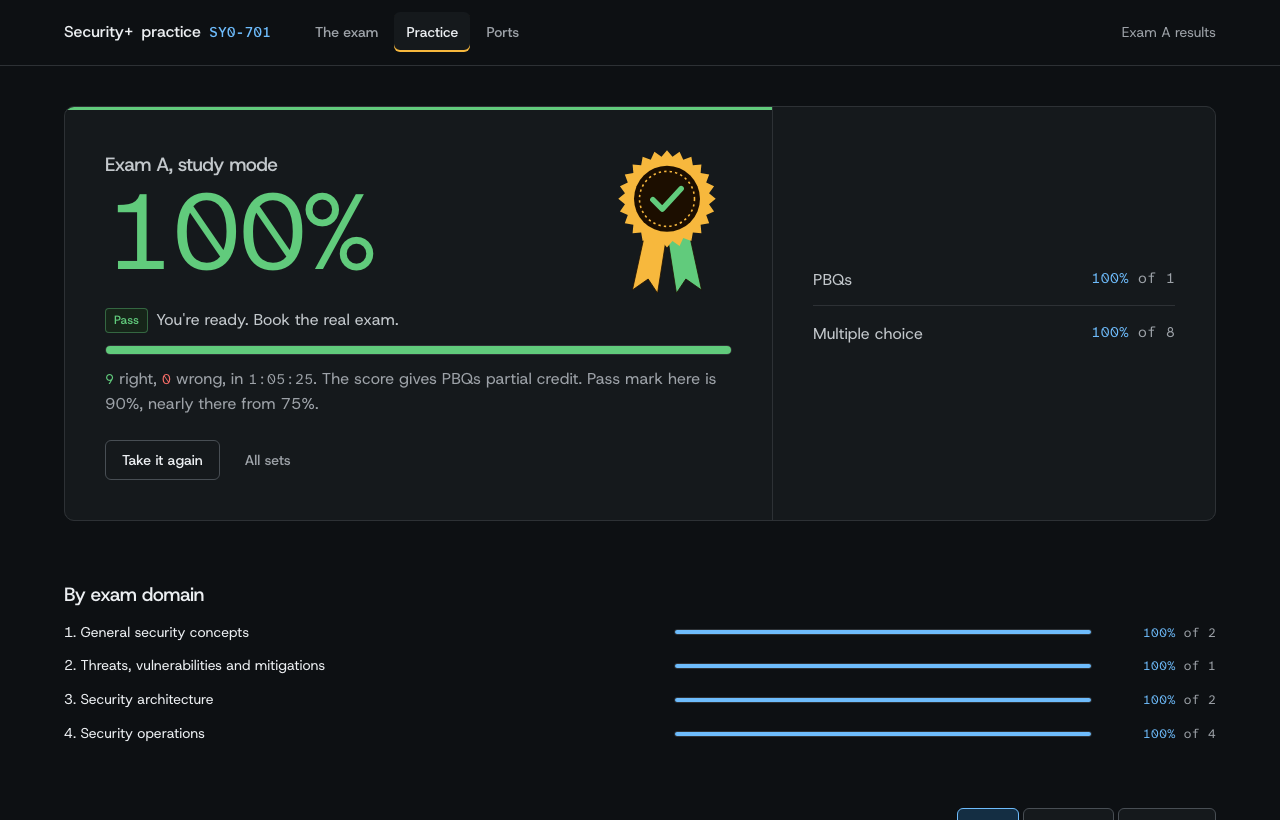
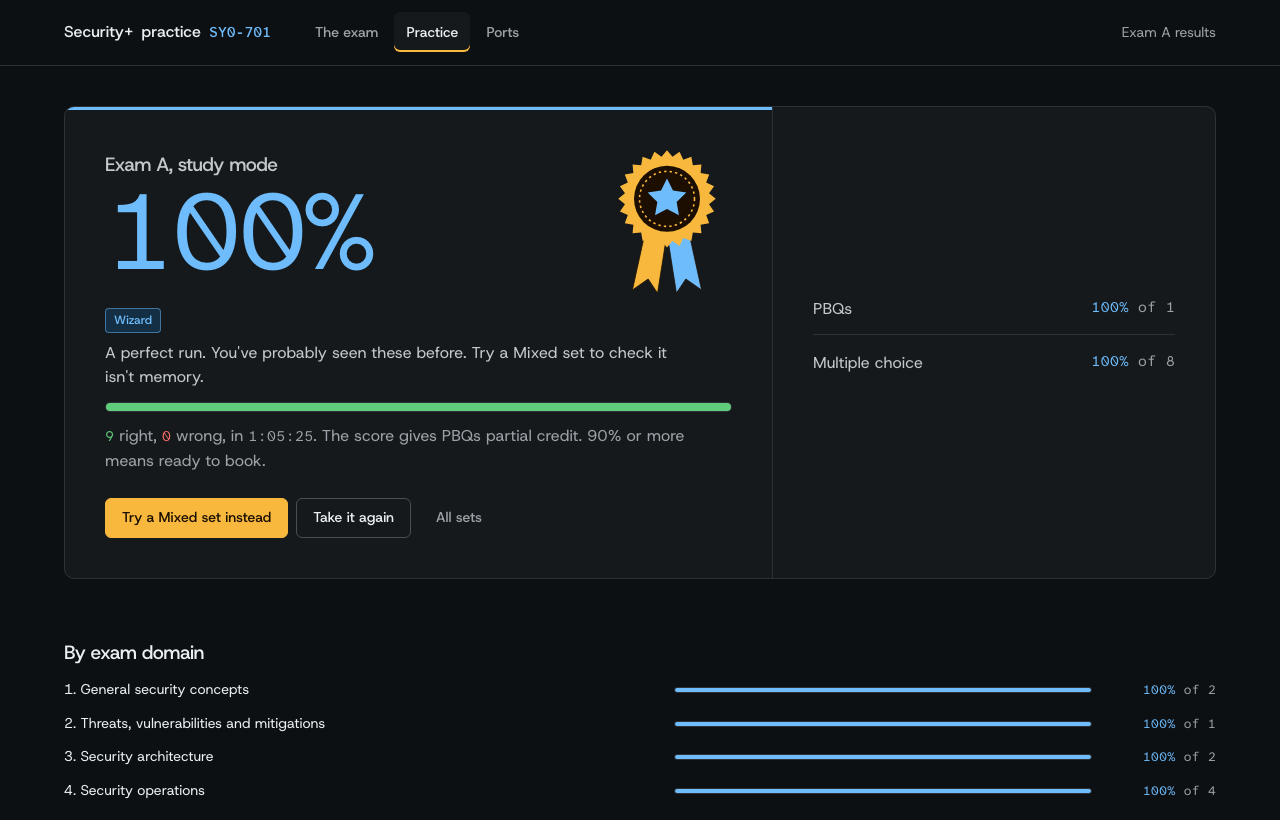
Score tiers from Professor Messer's chart, plus Wizard at 100%
Wizard (100%) offers a Mixed set instead, Exceptional (90%+) is ready to
book, then Strong showing (80%+), So close (70%+) and Not yet. Landing page,
README and screenshots updated to match.

diff --git a/app.js b/app.js
@@ -113,14 +113,17 @@ const icon = {
   bad: '<svg width="16" height="16" viewBox="0 0 16 16" aria-hidden="true"><path d="M4 4l8 8M12 4l-8 8" fill="none" stroke="currentColor" stroke-width="1.8" stroke-linecap="round"/></svg>',
 };
 
-// ---------- tiers: 90%+ pass, 75%+ nearly there, below that read more ----------
-const TIERS = [
-  { min: 0.9, key: "pass", name: "Pass", line: "You're ready. Book the real exam." },
-  { min: 0.75, key: "near", name: "Nearly there", line: "Good try. Close the gaps below and go again." },
-  { min: 0, key: "fail", name: "Not yet", line: "Read more on the weak domains below, then retry the ones you missed." },
+// ---------- tiers (see TIERS below) ----------
+const TIERS = [ // Professor Messer's scoring chart, plus Wizard for a perfect score
+  { min: 1, key: "wizard", name: "Wizard", line: "A perfect run. You've probably seen these before. Try a Mixed set to check it isn't memory." },
+  { min: 0.9, key: "pass", name: "Exceptional", line: "You're ready for the real thing. Book the exam." },
+  { min: 0.8, key: "strong", name: "Strong showing", line: "85% and up can reasonably count as a pass. A bit more study earns real points." },
+  { min: 0.7, key: "close", name: "So close", line: "Keep working on what you missed and fill those gaps." },
+  { min: 0, key: "fail", name: "Not yet", line: "Use the objective link on each missed question to find where you need more help." },
 ];
+const READY = (score) => score >= 0.9;
 const tierOf = (score) => TIERS.find((t) => score >= t.min);
-function rosette() {
+function rosette(star) {
   // an original award rosette: 24-point scalloped disc, inner seal, two tails
   const pts = [];
   for (let i = 0; i < 48; i++) { const r = i % 2 ? 54 : 62, a = (i / 48) * Math.PI * 2; pts.push(`${(70 + r * Math.sin(a)).toFixed(1)},${(66 - r * Math.cos(a)).toFixed(1)}`); }
@@ -130,7 +133,7 @@ function rosette() {
     <polygon class="rosette__edge" points="${pts.join(" ")}"/>
     <circle class="rosette__seal" cx="70" cy="66" r="42"/>
     <circle class="rosette__ring" cx="70" cy="66" r="35"/>
-    <path class="rosette__tick" d="M52 67 l12 12 l24 -26"/>
+    ${star ? `<path class="rosette__star" d="M70 40 l7.6 15.4 17 2.5 -12.3 12 2.9 16.9 -15.2 -8 -15.2 8 2.9 -16.9 -12.3 -12 17 -2.5z"/>` : `<path class="rosette__tick" d="M52 67 l12 12 l24 -26"/>`}
   </svg>`;
 }
 const confetti = () => `<div class="confetti" aria-hidden="true">${Array.from({ length: 24 }, (_, i) => `<i style="--x:${(Math.random() * 2 - 1).toFixed(2)};--d:${(Math.random() * 0.4).toFixed(2)}s;--r:${Math.round(Math.random() * 360)}deg" class="c${i % 3}"></i>`).join("")}</div>`;
@@ -223,11 +226,13 @@ function renderLanding() {
       <div class="tiers-key">
         <h3>How your score reads</h3>
         <ul role="list">
-          <li><span class="tier tier--pass">Pass</span><span class="measured">90% and up</span><span>Ready to book.</span></li>
-          <li><span class="tier tier--near">Nearly there</span><span class="measured">75 to 89%</span><span>Good try. Close the gaps and go again.</span></li>
-          <li><span class="tier tier--fail">Not yet</span><span class="measured">below 75%</span><span>Read more on your weakest domains.</span></li>
+          <li><span class="tier tier--wizard">Wizard</span><span class="measured">100%</span><span>Perfect. Try a Mixed set to prove it isn't memory.</span></li>
+          <li><span class="tier tier--pass">Exceptional</span><span class="measured">90% and up</span><span>Ready for the real exam. Book it.</span></li>
+          <li><span class="tier tier--strong">Strong showing</span><span class="measured">80 to 89%</span><span>85% and up can reasonably count as a pass.</span></li>
+          <li><span class="tier tier--close">So close</span><span class="measured">70 to 79%</span><span>Keep working on the areas you miss.</span></li>
+          <li><span class="tier tier--fail">Not yet</span><span class="measured">below 70%</span><span>Use each objective link to find the gaps.</span></li>
         </ul>
-        <p class="muted small">CompTIA doesn't publish how its scaled score maps to a percentage, so treat these as readiness marks, not a prediction.</p>
+        <p class="muted small">These follow Professor Messer's scoring chart. CompTIA doesn't publish how its scaled score maps to a percentage, so treat them as readiness marks, not a prediction.</p>
       </div>
     </section>
 
@@ -246,9 +251,9 @@ function renderLanding() {
         <p>Book when your practice scores say so, not when the calendar does.</p></div>
       <div class="exam-grid">
         <ul class="facts" role="list">
-          <li><strong>Over 90% on these practice exams:</strong> you're ready for the real one.</li>
-          <li><strong>80 to 90%:</strong> a strong showing. A little more study earns real points.</li>
-          <li><strong>Below that:</strong> use each missed question's objective link to find the gaps.</li>
+          <li><strong>90% or more on these practice exams:</strong> you're ready for the real one.</li>
+          <li><strong>80 to 89%:</strong> a strong showing, and 85% can reasonably count as a pass. A little more study earns real points.</li>
+          <li><strong>70 to 79%:</strong> so close. Below 70%, use each missed question's objective link to find the gaps.</li>
           <li><strong>Not confident?</strong> Wait a few days and take more practice sets. Aim to understand why, not to memorise the key.</li>
         </ul>
         <div>
@@ -300,7 +305,7 @@ function renderHome() {
   const hist = store.history.slice(0, 12);
   const H = store.history;
   const right = H.reduce((m, h) => m + h.full, 0), seen = H.reduce((m, h) => m + h.total, 0);
-  const passes = H.filter((h) => tierOf(h.score).key === "pass").length;
+  const passes = H.filter((h) => READY(h.score)).length;
   const stats = H.length ? `
     <section class="stats" aria-labelledby="stats-h">
       <h2 id="stats-h">Your numbers so far</h2>
@@ -309,7 +314,7 @@ function renderHome() {
         <div><p class="stats__k">Right</p><p class="stats__v measured stats__v--ok">${right}</p></div>
         <div><p class="stats__k">Wrong</p><p class="stats__v measured stats__v--bad">${seen - right}</p></div>
         <div><p class="stats__k">Sets finished</p><p class="stats__v measured">${H.length}</p></div>
-        <div><p class="stats__k">Passes at 90%</p><p class="stats__v measured">${passes}</p></div>
+        <div><p class="stats__k">Ready (90%+)</p><p class="stats__v measured">${passes}</p></div>
       </div>
       <div class="split" role="img" aria-label="${right} right and ${seen - right} wrong out of ${seen} questions"><span class="split__ok" style="--v:${right / seen}"></span></div>
       <p class="muted small">Across every finished set. A PBQ only counts as right when every box is right.</p>
@@ -720,18 +725,19 @@ function renderResults(s) {
     <section class="results">
       <div class="panels score">
         <div class="score__lead verdict-box verdict-box--${T.key} ${fresh ? "is-fresh" : ""}">
-          ${T.key === "pass" && fresh ? confetti() : ""}
+          ${READY(score) && fresh ? confetti() : ""}
           <div class="verdict-box__top">
             <div>
               <h1>${SETS[s.set].name}, ${s.mode === "exam" ? "exam mode" : "study mode"}</h1>
               <p class="reading">${pct(score)}%</p>
             </div>
-            <div class="badge badge--${T.key}">${T.key === "pass" ? rosette() : T.key === "near" ? `<svg class="badge__ring" viewBox="0 0 120 120" aria-hidden="true"><circle cx="60" cy="60" r="50" class="badge__track"/><circle cx="60" cy="60" r="50" class="badge__fill" style="--v:${score}"/></svg>` : `<svg class="badge__book" viewBox="0 0 120 120" aria-hidden="true"><path d="M20 30 Q40 22 60 32 Q80 22 100 30 V92 Q80 84 60 94 Q40 84 20 92 Z"/><path d="M60 32 V94"/></svg>`}</div>
+            <div class="badge badge--${T.key}">${READY(score) ? rosette(T.key === "wizard") : T.key !== "fail" ? `<svg class="badge__ring" viewBox="0 0 120 120" aria-hidden="true"><circle cx="60" cy="60" r="50" class="badge__track"/><circle cx="60" cy="60" r="50" class="badge__fill" style="--v:${score}"/></svg>` : `<svg class="badge__book" viewBox="0 0 120 120" aria-hidden="true"><path d="M20 30 Q40 22 60 32 Q80 22 100 30 V92 Q80 84 60 94 Q40 84 20 92 Z"/><path d="M60 32 V94"/></svg>`}</div>
           </div>
-          <p class="tier-line"><span class="tier tier--${T.key}">${T.name}</span> <span>${T.line}${T.key !== "pass" && weakest ? ` Weakest: <strong>${weakest}</strong>.` : ""}</span></p>
+          <p class="tier-line"><span class="tier tier--${T.key}">${T.name}</span> <span>${T.line}${!READY(score) && weakest ? ` Weakest: <strong>${weakest}</strong>.` : ""}</span></p>
           <div class="split" role="img" aria-label="${full} right and ${rows.length - full} wrong"><span class="split__ok" style="--v:${full / rows.length}"></span></div>
-          <p class="muted"><span class="measured tally__ok">${full}</span> right, <span class="measured tally__bad">${rows.length - full}</span> wrong, in <span class="measured">${fmtTime(s.elapsed)}</span>. The score gives PBQs partial credit. Pass mark here is 90%, nearly there from 75%.</p>
+          <p class="muted"><span class="measured tally__ok">${full}</span> right, <span class="measured tally__bad">${rows.length - full}</span> wrong, in <span class="measured">${fmtTime(s.elapsed)}</span>. The score gives PBQs partial credit. 90% or more means ready to book.</p>
           <div class="score__go">
+            ${T.key === "wizard" ? `<button class="btn btn--primary" data-act="mixed">${s.set === "M" ? "Try another Mixed set" : "Try a Mixed set instead"}</button>` : ""}
             ${missed.length ? `<button class="btn btn--primary" data-act="retry">Retry the ${missed.length} missed</button>` : ""}
             <button class="btn" data-act="again">${s.set === "M" ? "New mixed set" : "Take it again"}</button>
             <a class="btn btn--quiet" href="#/practice">All sets</a>
@@ -765,6 +771,7 @@ function renderResults(s) {
     const r = e.target.closest("[data-review]"); if (r) { s.reviewing = true; save(); return; }
     const b = e.target.closest("[data-act]"); if (!b) return;
     if (b.dataset.act === "retry") { const ids = missed.map((m) => m.q.id); newSession("R", s.mode, [...ids.filter((id) => Q[id].type === "pbq"), ...shuffle(ids.filter((id) => Q[id].type !== "pbq"))]); location.hash = "#/quiz/R/1"; }
+    if (b.dataset.act === "mixed") { newSession("M", s.mode); location.hash = "#/quiz/M/1"; return; }
     if (b.dataset.act === "again") { newSession(s.set, s.mode); location.hash = `#/quiz/${s.set}/1`; }
   };
   app.onchange = null; document.onkeydown = null; app.ondrop = app.ondragstart = app.ondragover = app.ondragleave = app.ondragend = null;

diff --git a/app.css b/app.css
@@ -285,7 +285,9 @@ a:hover { color: var(--color-accent); }
 /* tiers */
 .tier { display: inline-flex; align-items: center; padding: var(--space-3xs) var(--space-xs); border-radius: 4px; font-family: var(--font-body); font-size: var(--text-xs); font-weight: 500; border: var(--rule-hair) solid; white-space: nowrap; vertical-align: middle; }
 .tier--pass { color: var(--color-ok); background: var(--color-ok-soft); border-color: color-mix(in oklab, var(--color-ok) 40%, transparent); }
-.tier--near { color: var(--color-accent); background: var(--color-accent-soft); border-color: color-mix(in oklab, var(--color-accent) 40%, transparent); }
+.tier--wizard { color: var(--color-cool); background: var(--color-cool-soft); border-color: color-mix(in oklab, var(--color-cool) 50%, transparent); }
+.tier--strong { color: var(--color-accent); background: var(--color-accent-soft); border-color: color-mix(in oklab, var(--color-accent) 40%, transparent); }
+.tier--close { color: var(--color-ink-2); background: var(--color-paper-3); border-color: var(--color-rule-2); }
 .tier--fail { color: var(--color-bad); background: var(--color-bad-soft); border-color: color-mix(in oklab, var(--color-bad) 40%, transparent); }
 .split { height: 10px; border-radius: 5px; background: var(--color-bad-soft); border: var(--rule-hair) solid var(--color-rule); overflow: hidden; width: 100%; }
 .split__ok { display: block; height: 100%; width: 100%; background: var(--color-ok); transform-origin: left; transform: scaleX(var(--v)); }
@@ -294,7 +296,11 @@ a:hover { color: var(--color-accent); }
 .verdict-box { position: relative; overflow: hidden; }
 .verdict-box__top { display: flex; justify-content: space-between; align-items: center; gap: var(--space-lg); width: 100%; }
 .verdict-box--pass { box-shadow: inset 0 3px 0 var(--color-ok); }
-.verdict-box--near { box-shadow: inset 0 3px 0 var(--color-accent); }
+.verdict-box--wizard { box-shadow: inset 0 3px 0 var(--color-cool); }
+.verdict-box--wizard .reading { color: var(--color-cool); }
+.verdict-box--strong { box-shadow: inset 0 3px 0 var(--color-accent); }
+.verdict-box--close { box-shadow: inset 0 3px 0 var(--color-rule-2); }
+.badge--close .badge__fill { stroke: var(--color-ink-2); }
 .verdict-box--fail { box-shadow: inset 0 3px 0 var(--color-bad); }
 .verdict-box--pass .reading { color: var(--color-ok); }
 .tier-line { color: var(--color-ink-2); display: flex; flex-wrap: wrap; gap: var(--space-xs); align-items: center; }
@@ -306,6 +312,8 @@ a:hover { color: var(--color-accent); }
 .rosette__edge { fill: var(--color-accent); }
 .rosette__seal { fill: var(--color-accent-ink); }
 .rosette__ring { fill: none; stroke: var(--color-accent); stroke-width: 2; stroke-dasharray: 3 4; }
+.rosette__star { fill: var(--color-cool); }
+.badge--wizard .rosette__tail--r { fill: var(--color-cool); }
 .rosette__tick { fill: none; stroke: var(--color-ok); stroke-width: 7; stroke-linecap: round; stroke-linejoin: round; stroke-dasharray: 60; stroke-dashoffset: 0; }
 .badge__ring { width: 110px; transform: rotate(-90deg); }
 .badge__track { fill: none; stroke: var(--color-paper-3); stroke-width: 10; }
@@ -313,7 +321,9 @@ a:hover { color: var(--color-accent); }
 .badge__book { width: 100px; fill: none; stroke: var(--color-bad); stroke-width: 4; stroke-linejoin: round; }
 @media (prefers-reduced-motion: no-preference) {
   .is-fresh .rosette { animation: rosette-in var(--dur-long) var(--ease-out) both; }
-  .is-fresh .rosette__tick { animation: tick-draw 600ms var(--ease-out) 300ms both; }
+  .is-fresh .rosette__star { fill: var(--color-cool); }
+.badge--wizard .rosette__tail--r { fill: var(--color-cool); }
+.rosette__tick { animation: tick-draw 600ms var(--ease-out) 300ms both; }
   .is-fresh .badge__fill { animation: ring-fill 900ms var(--ease-out) both; }
   .is-fresh .split__ok { animation: split-in 700ms var(--ease-out) both; }
   @keyframes rosette-in { from { transform: scale(0.4) rotate(-25deg); opacity: 0; } 70% { transform: scale(1.08) rotate(4deg); opacity: 1; } to { transform: none; } }
@@ -364,7 +374,7 @@ a:hover { color: var(--color-accent); }
 .facts strong { color: var(--color-ink); font-weight: 500; }
 .tiers-key { padding: var(--space-lg); border: var(--rule-hair) solid var(--color-rule); border-radius: var(--radius-card); background: var(--color-paper-3); display: grid; gap: var(--space-md); }
 .tiers-key ul { list-style: none; margin: 0; padding: 0; display: grid; gap: var(--space-sm); }
-.tiers-key li { display: grid; grid-template-columns: 9rem 8rem minmax(0, 1fr); gap: var(--space-md); align-items: center; color: var(--color-ink-2); }
+.tiers-key li { display: grid; grid-template-columns: 10rem 8rem minmax(0, 1fr); gap: var(--space-md); align-items: center; color: var(--color-ink-2); }
 .tiers-key li .tier { justify-self: start; font-size: var(--text-sm); }
 .tiers-key .measured { color: var(--color-cool); }
 .steps { list-style: none; margin: 0; padding: 0; display: grid; grid-template-columns: repeat(3, minmax(0, 1fr)); gap: var(--space-lg); counter-reset: step; }

diff --git a/README.md b/README.md
@@ -9,7 +9,7 @@ A local study site for the CompTIA Security+ SY0-701 exam. It runs from `index.h
 - **Study or exam mode:** check each answer as you go, or work against a 90-minute clock and review at the end.
 - **Every option explained:** why the right answer is right, why each wrong one is wrong, and a link to the objective's video.
 - **Drag-and-drop PBQs:** drag, or tap a choice and then tap a box. There's also a firewall-rule table.
-- **Scores:** 90% and up is a pass, 75 to 89% is nearly there, and below 75% means read more. You also get a breakdown by domain, right and wrong totals across all attempts, and a retry of the questions you missed.
+- **Scores:** tiers follow Professor Messer's scoring chart. 100% is **Wizard** (try a Mixed set to prove it isn't memory), 90% and up is **Exceptional** (ready to book), 80 to 89% is a **Strong showing**, 70 to 79% is **So close**, and below 70% is **Not yet**. You also get a breakdown by domain, right and wrong totals across all attempts, and a retry of the questions you missed.
 - **Ports flashcards:** 41 ports and protocols, VoIP included.
 
 Progress is saved in your browser's localStorage.
@@ -20,7 +20,7 @@ The screenshots use sample questions written for this README. The book's questio
 
 **Pick a set, and see your numbers across every attempt**
 
-![Practice page with the four sets, overall accuracy, right and wrong counts, and past attempts with pass, nearly-there and not-yet labels](docs/screenshots/practice.png)
+![Practice page with the four sets, overall accuracy, right and wrong counts, and past attempts labelled by tier](docs/screenshots/practice.png)
 
 **Drag-and-drop PBQs, then the marked result with a note on each box**
 
@@ -32,11 +32,11 @@ The screenshots use sample questions written for this README. The book's questio
 
 ![A select-two question after checking, with right answers in green, the wrong pick in red, and a reason under each option](docs/screenshots/mcq.png)
 
-**Results: pass ribbon at 90%, nearly there from 75%**
+**Results: a star ribbon for a perfect score, a ribbon from 90%, a gauge below that**
 
-| Pass | Nearly there |
+| Wizard | Strong showing |
 | --- | --- |
-| ![Results at 100% with a gold pass ribbon](docs/screenshots/pass.png) | ![Results at 89% with a ring gauge and the weakest domain named](docs/screenshots/results.png) |
+| ![Results at 100%: Wizard, a ribbon with a star, and a button to try a Mixed set](docs/screenshots/pass.png) | ![Results at 89%: Strong showing, a ring gauge and the weakest domain named](docs/screenshots/results.png) |
 
 **Ports flashcards, and it works on a phone**
 
